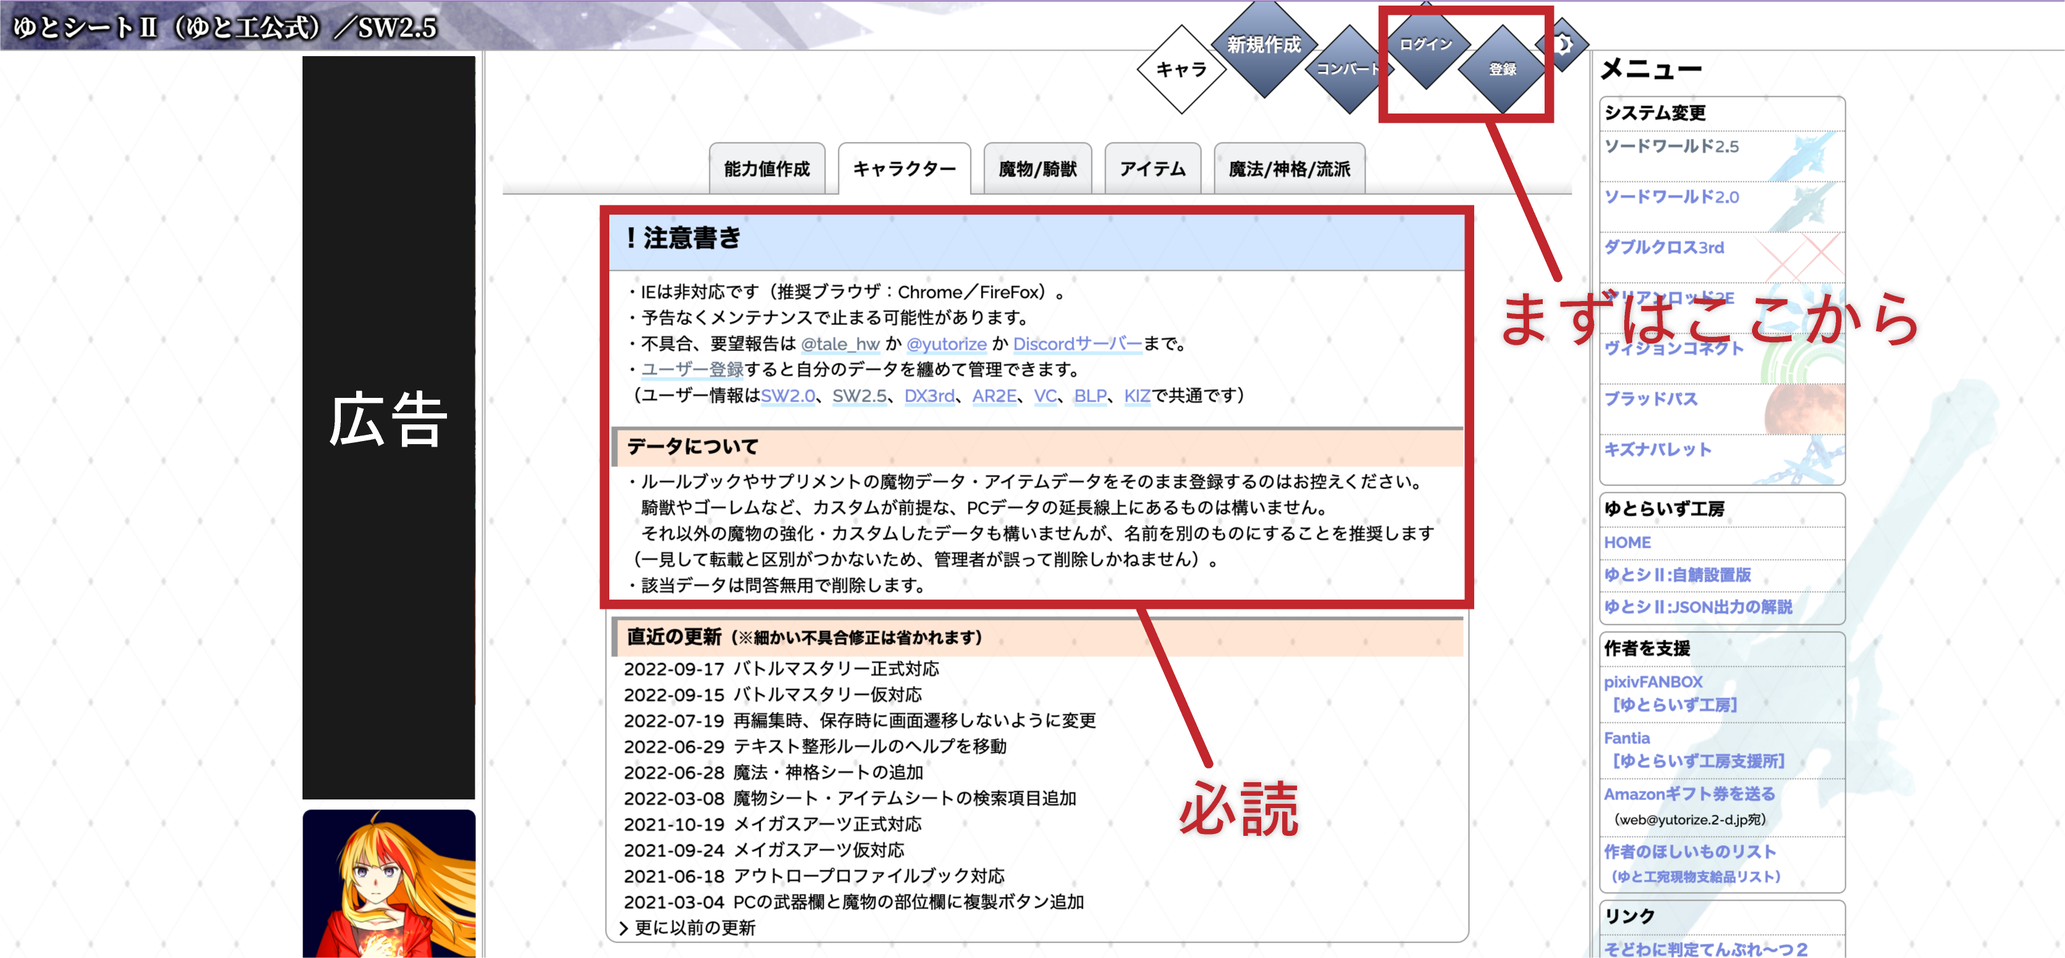
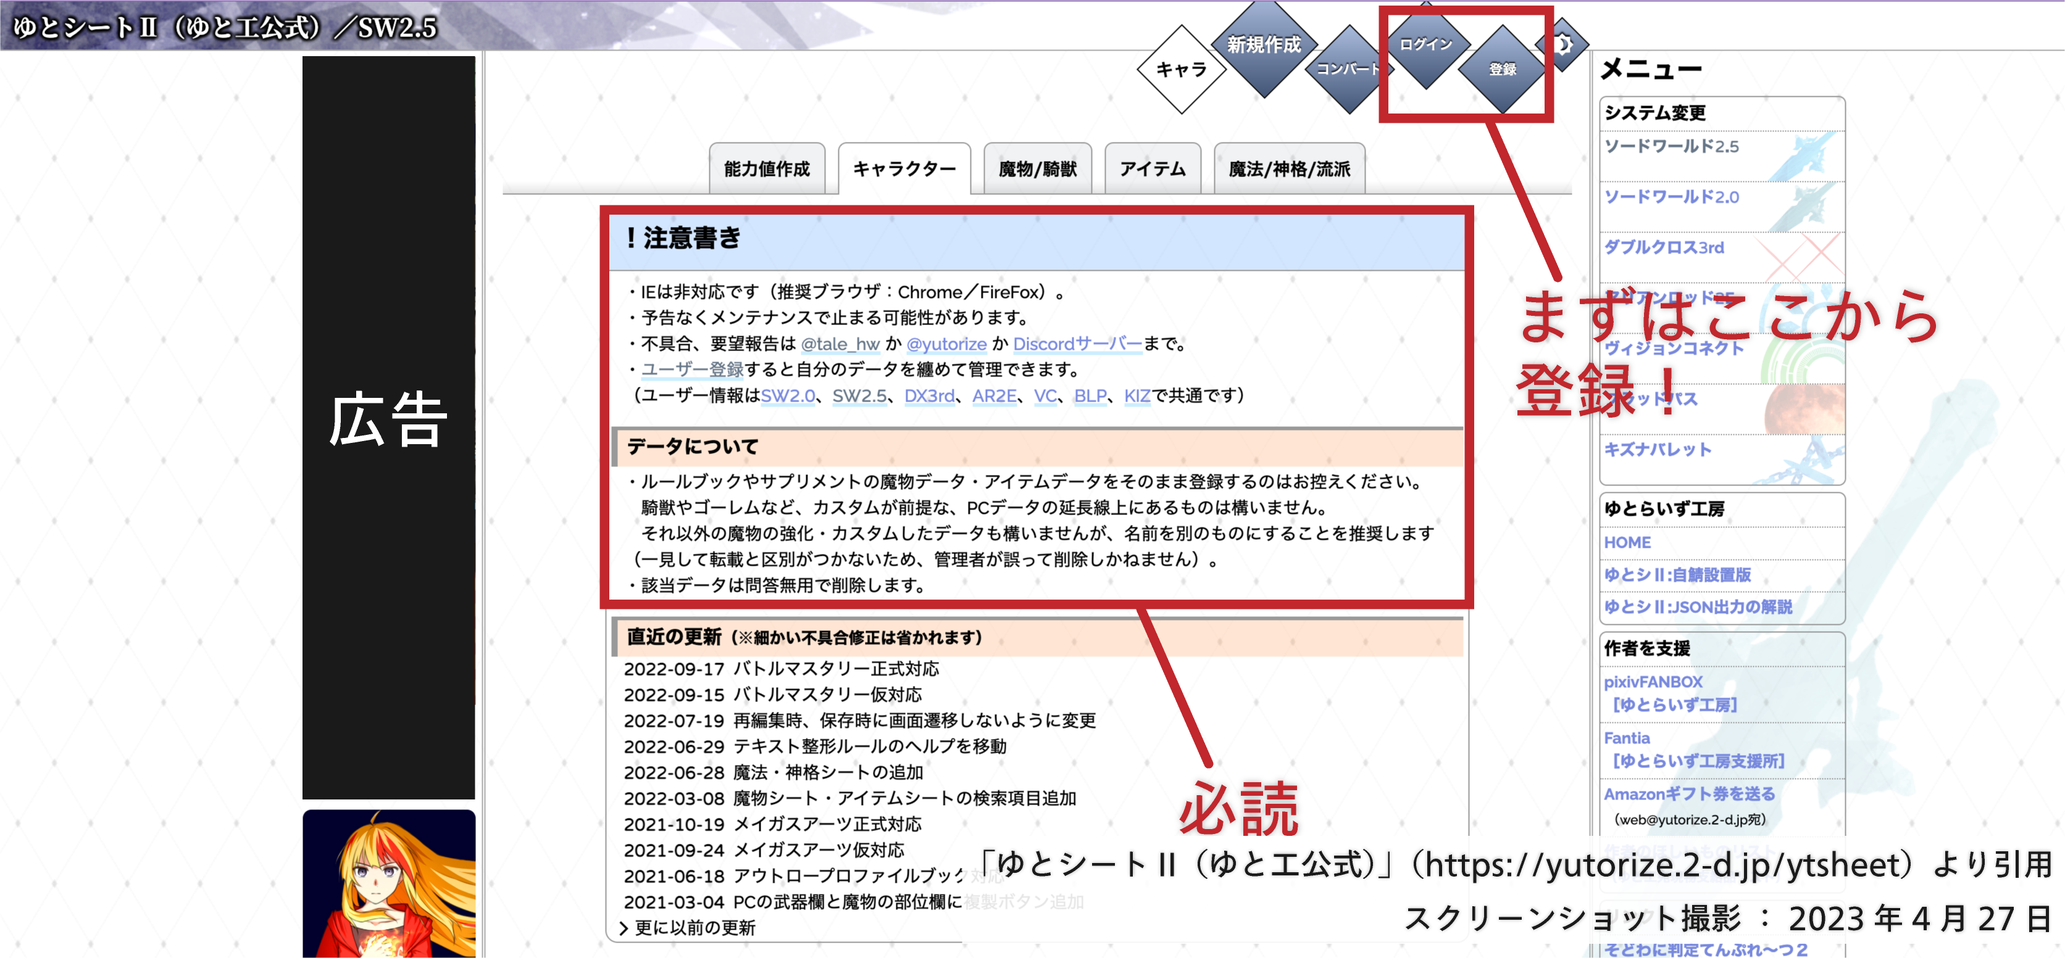
一旦アップロード

Changed region(s): [[0.4664, 0.8654, 0.9949, 0.9891], [0.7151, 0.3091, 0.9327, 0.4327]]

diff --git a/pages/sw25/forbeginner/ytsheet.vue b/pages/sw25/forbeginner/ytsheet.vue
@@ -1,0 +1,302 @@
+<template>
+  <card-array-by-andml :andml="andml1" />
+</template>
+
+<script setup lang="ts">
+const { nowPageSetting } = usePages()
+const andml1 = `
+&1 このページについて
+このページではソード・ワールド2.5（SW2.5）のキャラクターシートなどを作ることができるWebサービス &link_https://yutorize.2-d.jp/ytsheet/sw2.5/?,ゆとシートII（ゆと工公式） について、使い方を画像付きでわかりやすく解説します！
+&br
+実際に「じっくり作成」（『ルールブックI』p.20・p.63）をする流れを解説するので、一緒にやってみてください。
+&br
+&em_ゆとシートはソード・ワールド2.5などのTRPGを遊ぶ際にとても役立つ ので、ぜひこのページを読んで使い方をマスターしてください！
+
+&1 ゆとシートとは？
+ゆとシートはTALEさん（ &link_https://twitter.com/tale_hw/status/1035851396564676608,Twitter ）が作ってくださっているソードワールド2.5用のオンライン管理キャラクターシートです。
+&br
+現在はかなりの機能があり、ソード・ワールド2.5関連では以下の機能があります。
+&br
+- キャラクター能力値作成
+- キャラクターシート（保存・閲覧）
+- 魔物データ（保存・閲覧）
+- 騎獣データ（保存・閲覧）
+- アイテムデータ（保存・閲覧）
+- 魔法データ（保存・閲覧）
+- 神格データ（保存・閲覧）
+- 流派データ（保存・閲覧）
+
+&2 様々なTRPGに対応
+また、ソード・ワールド2.5以外のTRPGにも対応しており、現在は以下のTRPGシステムに対応しています。
+&br
+- ソード・ワールド2.5
+- ソード・ワールド2.0
+- ダブルクロス3rd
+- アリアンロット2E
+- ヴィジョンコネクト
+- ブラッドパス
+- キズナバレット
+
+&1 大事なお約束
+ゆとシートを使う際は &em_毎回 ゆとシートの &em_「注意書き」などをしっかりと確認 してください。
+&br
+また、このページの最終更新日は${nowPageSetting.value.lastmod}です。
+最新情報は &link_https://yutorize.2-d.jp/ytsheet/sw2.5/,ゆとシート の「注意書き」などをご覧ください。
+
+&1 使い方1 ゆとシートに登録
+&img_/ytsheet/1.webp,トップ画面
+&link_https://yutorize.2-d.jp/ytsheet/sw2.5/,ゆとシート を開いてください。
+上記画像の「必読」部分をまずは読みましょう。
+&br
+読んだら右上にある「登録」ボタンを押して登録をします。
+登録をすることでいろいろ便利なので、登録しましょう。
+※登録済みの場合は飛ばしてください
+&img_/ytsheet/2.webp,登録画面
+「メールアドレス」は入力しなくても大丈夫ですが、他を入力しましょう。
+「ID」と「パスワード」はログインに使用します。
+&br
+「名前」「メールアドレス」「パスワード」は後から変更可能です。
+&br
+入力したら「登録」ボタンを押しましょう。
+
+&1 使い方2 ログイン
+右上にある「ログイン」ボタン（「登録」ボタンの横）を押すとログイン画面に移ります。
+登録した「ID」と「パスワード」を使ってログインします。
+&br
+以下の画面のように右上から「ログイン」「登録」ボタンがなくなり、「マイリスト」「オプション」「ログアウト」ボタンが表示されていれば &em_ログイン成功 です。
+&img_/ytsheet/3.webp,ログイン成功後の画面
+
+&1 使い方3 キャラクター能力値作成
+ここからは実際に「じっくり作成」（『ルールブックI』p.20・p.63）をやっていきます。
+&br
+まず『1.博士のキャラクターシートを準備』はゆとシートがその役割を担ってくれるので省略できます。
+次に『2.種族と生まれの決定』（『ルールブックI』p.64）ですが、これはルールブックに則って行ってください。
+なお種族に困った場合は以下のページも参考にしてください。
+&button_/sw25/forbeginner/syuzoku
+種族と生まれが決まったら『3.能力値の決定』（『ルールブックI』p.72）です。
+これはゆとシートを使ってやっていきましょう！
+&br
+&img_/ytsheet/4.webp,キャラクター能力値作成画面
+上記画像のように「能力値作成」ボタンを押すか、 &link_https://yutorize.2-d.jp/ytsheet/sw2.5/?mode=making,このリンク からキャラクター能力値作成画面を開きます。
+&br
+ここでは前述のようにじっくり作成における能力値の決定（『ルールブックI』p.72）を、簡単に行うことができます。
+&br
+やるべきことは「名前」「コメント」「生まれ」「種族」「振る回数」を入力するだけです。
+
+&3 入力内容
+「名前」には基本的にキャラクターの名前 &em_ではなく自分の名前 を入力しましょう。
+「コメント」にはGMの名前か知っていればシナリオの名前を入力すると良いでしょう。
+ここの2つはGM（や主催者）から指定があればそれに従ってください。
+&br
+「生まれ」「種族」は『2.種族と生まれの決定』（『ルールブックI』p.64）で決めた種族と生まれ（の「心」「技」「体」の値）を入力してください。
+&br
+「振る回数」はデフォルトで「3」になっているので、基本的に「3」のままで大丈夫です。（『ルールブックI』p.74の『ここがポイント！　複数回の能力値決定』参照）
+ただし、しゃちほこ丸が主催するセッション専用にキャラクターを作る場合にはハウスルールで「5」にしてもOKです。
+
+&3 能力値を作成
+ここまでできたら「作成」ボタンを押しましょう。
+&img_/ytsheet/5.webp,キャラクター能力値作成後画面
+※ 「生まれ」はテキトーに入力しています。
+&br
+「作成」ボタンを押した後にスクロールすると作成された能力値が載っています。
+&br
+「振る回数」の数だけ載っているので、ここから1つ選び、「この能力値で作成」ボタンを押しましょう。
+するとキャラクターシートの入力画面が開きます。
+
+&1 使い方4 キャラクターシートの作成
+ではここからはキャラクターシートを入力していきます。
+入力内容が多いですが、1つずつ順番に入力していきましょう。
+
+&2 基本設定
+&img_/ytsheet/6.webp,キャラクターシート入力画面
+&3 1.編集保護設定
+「編集保護設定」特に要望がなければ「アカウントに紐付ける」にしておきましょう。
+複数人で編集したい場合は「パスワードで保護」を選び、その後の入力ボックスにパスワードを入力するとよいでしょう。
+
+&3 2.閲覧可否設定とタグの設定
+「内容を全て開示」にしておかないとGMなどが見れないのでここは変えないようにしましょう。
+データを隠すNPCなどのみ、ここは変更しましょう。
+&br
+「一覧に表示」のままだと他の人から見られてしまいます。
+あまり見られたくない場合には「一覧に非表示」にしておきましょう。
+ただし、「一覧に非表示」にしても絶対に見られないわけではありません。
+&br
+グループは変更しないでください。
+&br
+タグは自由に入力できます。
+ただし、タグを入力している場合、「一覧に非表示」にしていてもタグ検索結果に表示されますので完全に見られないようにできないことはご注意ください。
+
+&3 3.キャラクター名・プレイヤー名
+「キャラクター名」はキャラクターの名前を入力しましょう。
+僕は基本的に最後に決めているのでここでは種族とメインにするつもりの技能を書いています。
+例）リルドラケンファイター
+&br
+「二つ名」も自由に設定しましょう。
+「フリガナ」は「二つ名」のふりがなです。キャラクター名のふりがなではないのでご注意を。
+&br
+「プレイヤー名」は「キャラクター能力値作成」の時に入力された内容が入っています。
+
+&3 4.一度保存する
+ここまで設定したら一度「保存」ボタンを押して保存しておきましょう。
+以降、定期的に保存するのがおすすめです。
+&img_/ytsheet/7.webp,キャラクターシート閲覧画面
+初めて保存をすると上図のようなキャラクターシート閲覧画面へ移行します。
+&br
+図のように右上の「編集」ボタンを押して編集画面へ戻りましょう。
+
+&3 5.作成レギュレーション
+初期作成の場合、ここは変更しなくて大丈夫です。
+&br
+経験点や所持金・名誉点・成長回数などがGMから指定されている場合、それらを入力しましょう。
+&br
+成長については合計成長回数を各能力値に割り振ります。
+GMから指定がない場合には『ルールブックIII』p.74の「成長回数平均表」を使うとよいでしょう。
+
+&2 基本設定の続きと能力値の入力
+&img_/ytsheet/8.webp,キャラクターシート入力画面
+少しスクロールすると上図のような画面になります。
+画面にはいろいろと表示されていますが、入力することはそれほど多くないので頑張って進めていきましょう。
+
+&3 入力
+まずは上図において赤文字で「ここを入力する」と書いた部分を書いていきます。
+&br
+「種族」と「生まれ」は決めたものを入力しましょう。
+「年齢」と「性別」は後回しでも大丈夫です。
+「穢れ」は基本的に「0」、ナイトメアやアルヴの場合は「1」になるでしょう。
+&br
+「信仰」は信仰する神様がいればその名前を書きましょう。
+ここはキャラクター設定でしかないのでプリースト技能を持っていなくても書いて大丈夫です。
+
+&3 画像
+まずは上図において赤文字で「画像はここから設定」と書いた部分をクリックして画像を設定します。
+著作権に注意しましょう。
+ここにアップロードする行為はいわゆる「再配布」にあたると僕は考えています。
+
+&3 増強
+まずは上図において赤文字で「指輪などで能力を増強する際に使用」と書いた部分は、ひとまず無視してください。
+『7.アイテムの購入』（『ルールブックI』p.82）で能力値増強の指輪（『ルールブックI』p.339）などのアイテムを購入した場合に使います。
+
+&3 割振りPt.
+これはサプリメント『エピックトレジャリー』掲載の選択ルール『ポイント割り振りによるキャラクター作成』（『エピックトレジャリー』p.54）を使用する際のものです。
+基本的に無視してください。
+&br
+※ サプリメント紹介は以下をご覧ください。
+&button_/sw25/forbeginner/suppliment
+
+&2 技能の取得
+では技能を取得していきます。
+ルールブックのじっくり作成では『4.技能の取得』（『ルールブックI』p.76）です。
+&img_/ytsheet/9.webp,キャラクターシート入力画面
+また少しスクロールすると上図のような画面になります。
+ここも画面にはいろいろと表示されていますが、入力することはそれほど多くないです。
+
+&3 技能
+取得する技能とそのレベルを選び、入力していきます。
+まずは忘れずに「生まれ」の初期技能を記入しましょう。
+すると上図において赤文字で「ここは余りの経験点」と書いた部分が生まれの初期経験点と一緒になります。
+&br
+プリースト技能を取る場合、横の入力欄は「セイクリッド系」を選びましょう。
+&br
+後は余りの経験点が0になるまで自由に技能を取っていきます。
+背景が水色の部分は無視しましょう。
+初期作成の場合、レベルは「1」か「2」になるでしょう。（『ルールブックI』p.76参照）
+&br
+技能の経験点テーブル（『ルールブックI』p.76）などをゆとシートが自動で計算し、余りの経験点を出してくれます。
+&br
+もちろん経験点を一部残しても構いません（が、何回も遊ぶということが決まっているわけではなければ全部使い切っておくのがオススメです）。
+&br
+なお技能に困った場合は以下のページも参考にしてください。
+&button_/sw25/forbeginner/ginou
+
+&3 HP・MP・生命抵抗力・精神抵抗力
+上図において赤文字で「ここはアイテムなどで変わる場合のみ入力」と書いた部分は無視して大丈夫です。
+&br
+技能を取ることで冒険者レベルが決まり、それによってHP・MP・生命抵抗力・精神抵抗力が自動で計算されています。
+『8.各種数値の確認・計算と記入』（『ルールブックI』p.84）が自動で終わっていきます。
+
+&3 一般技能
+また、上図において赤文字で「サプリメントの追加ルール用」と書いた「一般技能」も無視して大丈夫です。
+これはサプリメント『エピックトレジャリー』掲載の選択ルール『一般技能』（『エピックトレジャリー』p.55）を使用する際のものです。
+
+&2 戦闘特技と練技・呪歌などの入力
+以下では説明のため、「フェンサー」「プリースト」「スカウト」「エンハンサー」「バード」をそれぞれ1レベルずつ取ったと仮定します。
+&br
+つまり以下のような状態です。
+&img_/ytsheet/10.webp,キャラクターシート入力画面
+
+ゆとシートの表示順に従って『5.言語の取得』は一旦飛ばして『6.戦闘特技の習得』（『ルールブックI』p.80）へ進みます。
+少しスクロールすると以下のようになります。
+&img_/ytsheet/11.webp,キャラクターシート入力画面
+
+&3 戦闘特技
+選んだ戦闘特技を入力します。
+下のオプションや「秘伝」はサプリメントなどでの追加要素用なので無視しましょう。
+&br
+なお、グラップラー技能を選んだ場合の《追加攻撃》などの自動取得の戦闘特技はここで入力する必要はありません。
+ここでは表示されていませんが、閲覧画面に表示されるので大丈夫です。
+
+&3 練技・呪歌など
+エンハンサー技能やバード技能など一部のその他系技能では練技・呪歌などの能力を選んで取得することになります。
+これらの技能を選ぶと上図のように自動で項目が出てきます。
+&br
+※この上にある「習得レベルの足りない項目（特技／練技・呪歌など）も表示する」にはチェックを入れないでください。
+&br
+ここに選んだものを入力しましょう。
+なお、バード技能で終律を選んだ場合にも呪歌の欄に入力してください。
+
+&2 言語の入力
+では飛ばしていた『5.言語の取得』（『ルールブックI』p.77）です。
+&img_/ytsheet/12.webp,キャラクターシート入力画面
+上図の赤で囲っている「言語」欄に取得する言語を入力します。
+&br
+図のように「あと『1』言語取得できます」などと表示されるので安心ですが、一応過信せずにルールブックも確認しながら入力しましょう。
+&br
+他の部分はやはり自動で計算されるので、これまで同様にアイテムなどで数値変更がある場合のみ入力すればOKです。
+※ 取得した技能によって表示内容は変わります。
+
+&2 武器と防具
+では『7.アイテムの購入』（『ルールブックI』p.82）に進んでいきます。
+まずは武器と防具から。
+また少しスクロールすると以下のような画面になります。
+&img_/ytsheet/13.webp,キャラクターシート入力画面
+武器も防具も、購入するなら入力しましょう。
+&br
+上図において赤文字で「防護点が上がる他の要素を入力」と書いた部分には〈ブラックベルト〉（『ルールブックI』p.340）など防護点が上がるアイテムを買った場合や、練技【ビートルスキン】（『ルールブックII』p.212）などの防護点が上がる能力がある場合に入力します。
+&br
+上図において赤文字で「必ず選ぶ」と書いた2ヶ所は、戦士系技能（ファイター・グラップラー・フェンサー・シューター・バトルダンサー）を1つでも取っている場合、 &em_必ず 選んでください。
+
+&2 装飾品とその他アイテム・名誉点
+アイテムの購入を続けていきます。
+少しスクロールすると以下のような画面になります。
+&img_/ytsheet/14.webp,キャラクターシート入力画面
+&3 装飾品
+まずは装飾品（『ルールブックI』p.327）を入力しましょう。
+&br
+「専用」の欄は『個人専用装備』（『ルールブックII』p.135）のためのものです。
+初期作成の場合は無視してください。
+&3 その他アイテム
+また武器でも防具でも装飾品でもない、その他アイテムでは「所持品」のところに書きましょう。
+全キャラクターの推奨アイテム〈冒険者セット〉（『ルールブックI』p.82参照）は買っておきましょう。
+&3 所持金・預金／借金
+「所持品」の上にある「所持金」「預金／借金」は「自動」と入力されていればそのままにしておきましょう。
+あとで「収支履歴」を入力すると自動計算してくれます。
+&3 名誉点
+赤文字で「名誉点用」と書いた部分は名誉点（『ルールブックI』p.214および『ルールブックII』p.132）用の場所です。
+初期作成の場合は無視して構いません。
+
+&2 収支履歴
+ついに最後まで来ました！
+お疲れさまです。
+最後に「収支履歴」を入力しましょう。
+&img_/ytsheet/15.webp,キャラクターシート入力画面
+収支履歴は「買ったアイテム::かかった額」の形式で書いていきます。
+半角コロン¥s":"¥sが2つです。
+日本語キーボードだと多くの場合「L（り）」キーの2つ右にあります。
+&br
+武器・防具・装飾品も忘れずに記入しましょう。
+アイテムの購入と同時並行で行うのがオススメです。
+入力欄の下に「所持金」が出てくるので残りの額がわかりやすいです。
+&br
+※ 上図では買ったアイテムの名前を「なんか」などと書いていますが、実際にはしっかりとアイテム名を書きましょう。
+`
+</script>

diff --git a/src/pages/pageSettingList.ts b/src/pages/pageSettingList.ts
@@ -164,6 +164,17 @@ const normalPageSettingList: PageSetting[] = [
     tags: ["sw25"],
   },
   {
+    title: "SW2.5 ゆとシートの使い方",
+    to: "/sw25/forbeginner/ytsheet",
+    lastmod: "2023/4/29",
+    // img: "page-image/faq.webp",
+    osusume: true,
+    explain:
+      "ソード・ワールド2.5（SW2.5）の初心者の方がよく抱くだろう疑問に対する回答を載せています。",
+    noamazon: true,
+    tags: ["sw25"],
+  },
+  {
     title: "SW2.5 初心者向けFAQ",
     to: "/sw25/forbeginner/faq",
     lastmod: "2023/4/3",
